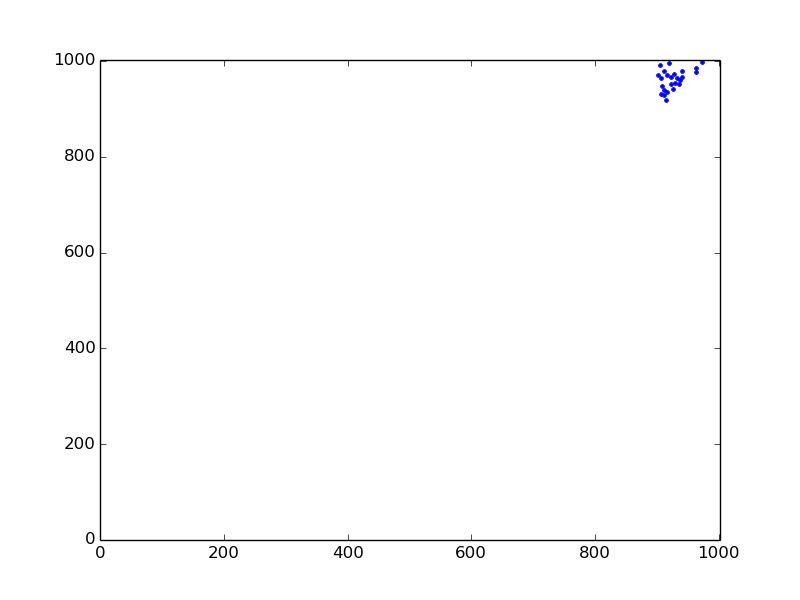
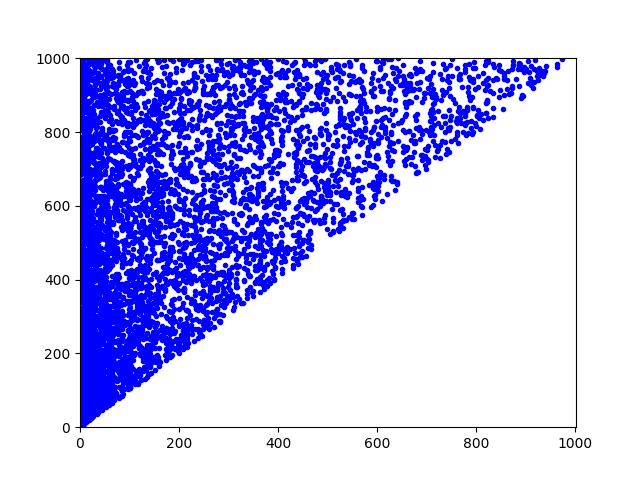
mac

diff --git a/olnrmf/nrmf.py b/olnrmf/nrmf.py
@@ -203,8 +203,7 @@ def plotResult(R,n,l):
                 count += 1
                 source_list.append(source)
                 target_list.append(target)
-        if source > 900:
-            plt.plot(source_list, target_list, 'b.')
+        plt.plot(source_list, target_list, 'b.')
     plt.savefig('anomaly.png')
     print count
 
@@ -226,7 +225,7 @@ if __name__ == "__main__":
     print len(M)
     print nodes_dict
 
-    r = 9
+    r = 3
     F,G,R = AltQP_Inc(M,n,r,n)
 
     print M
